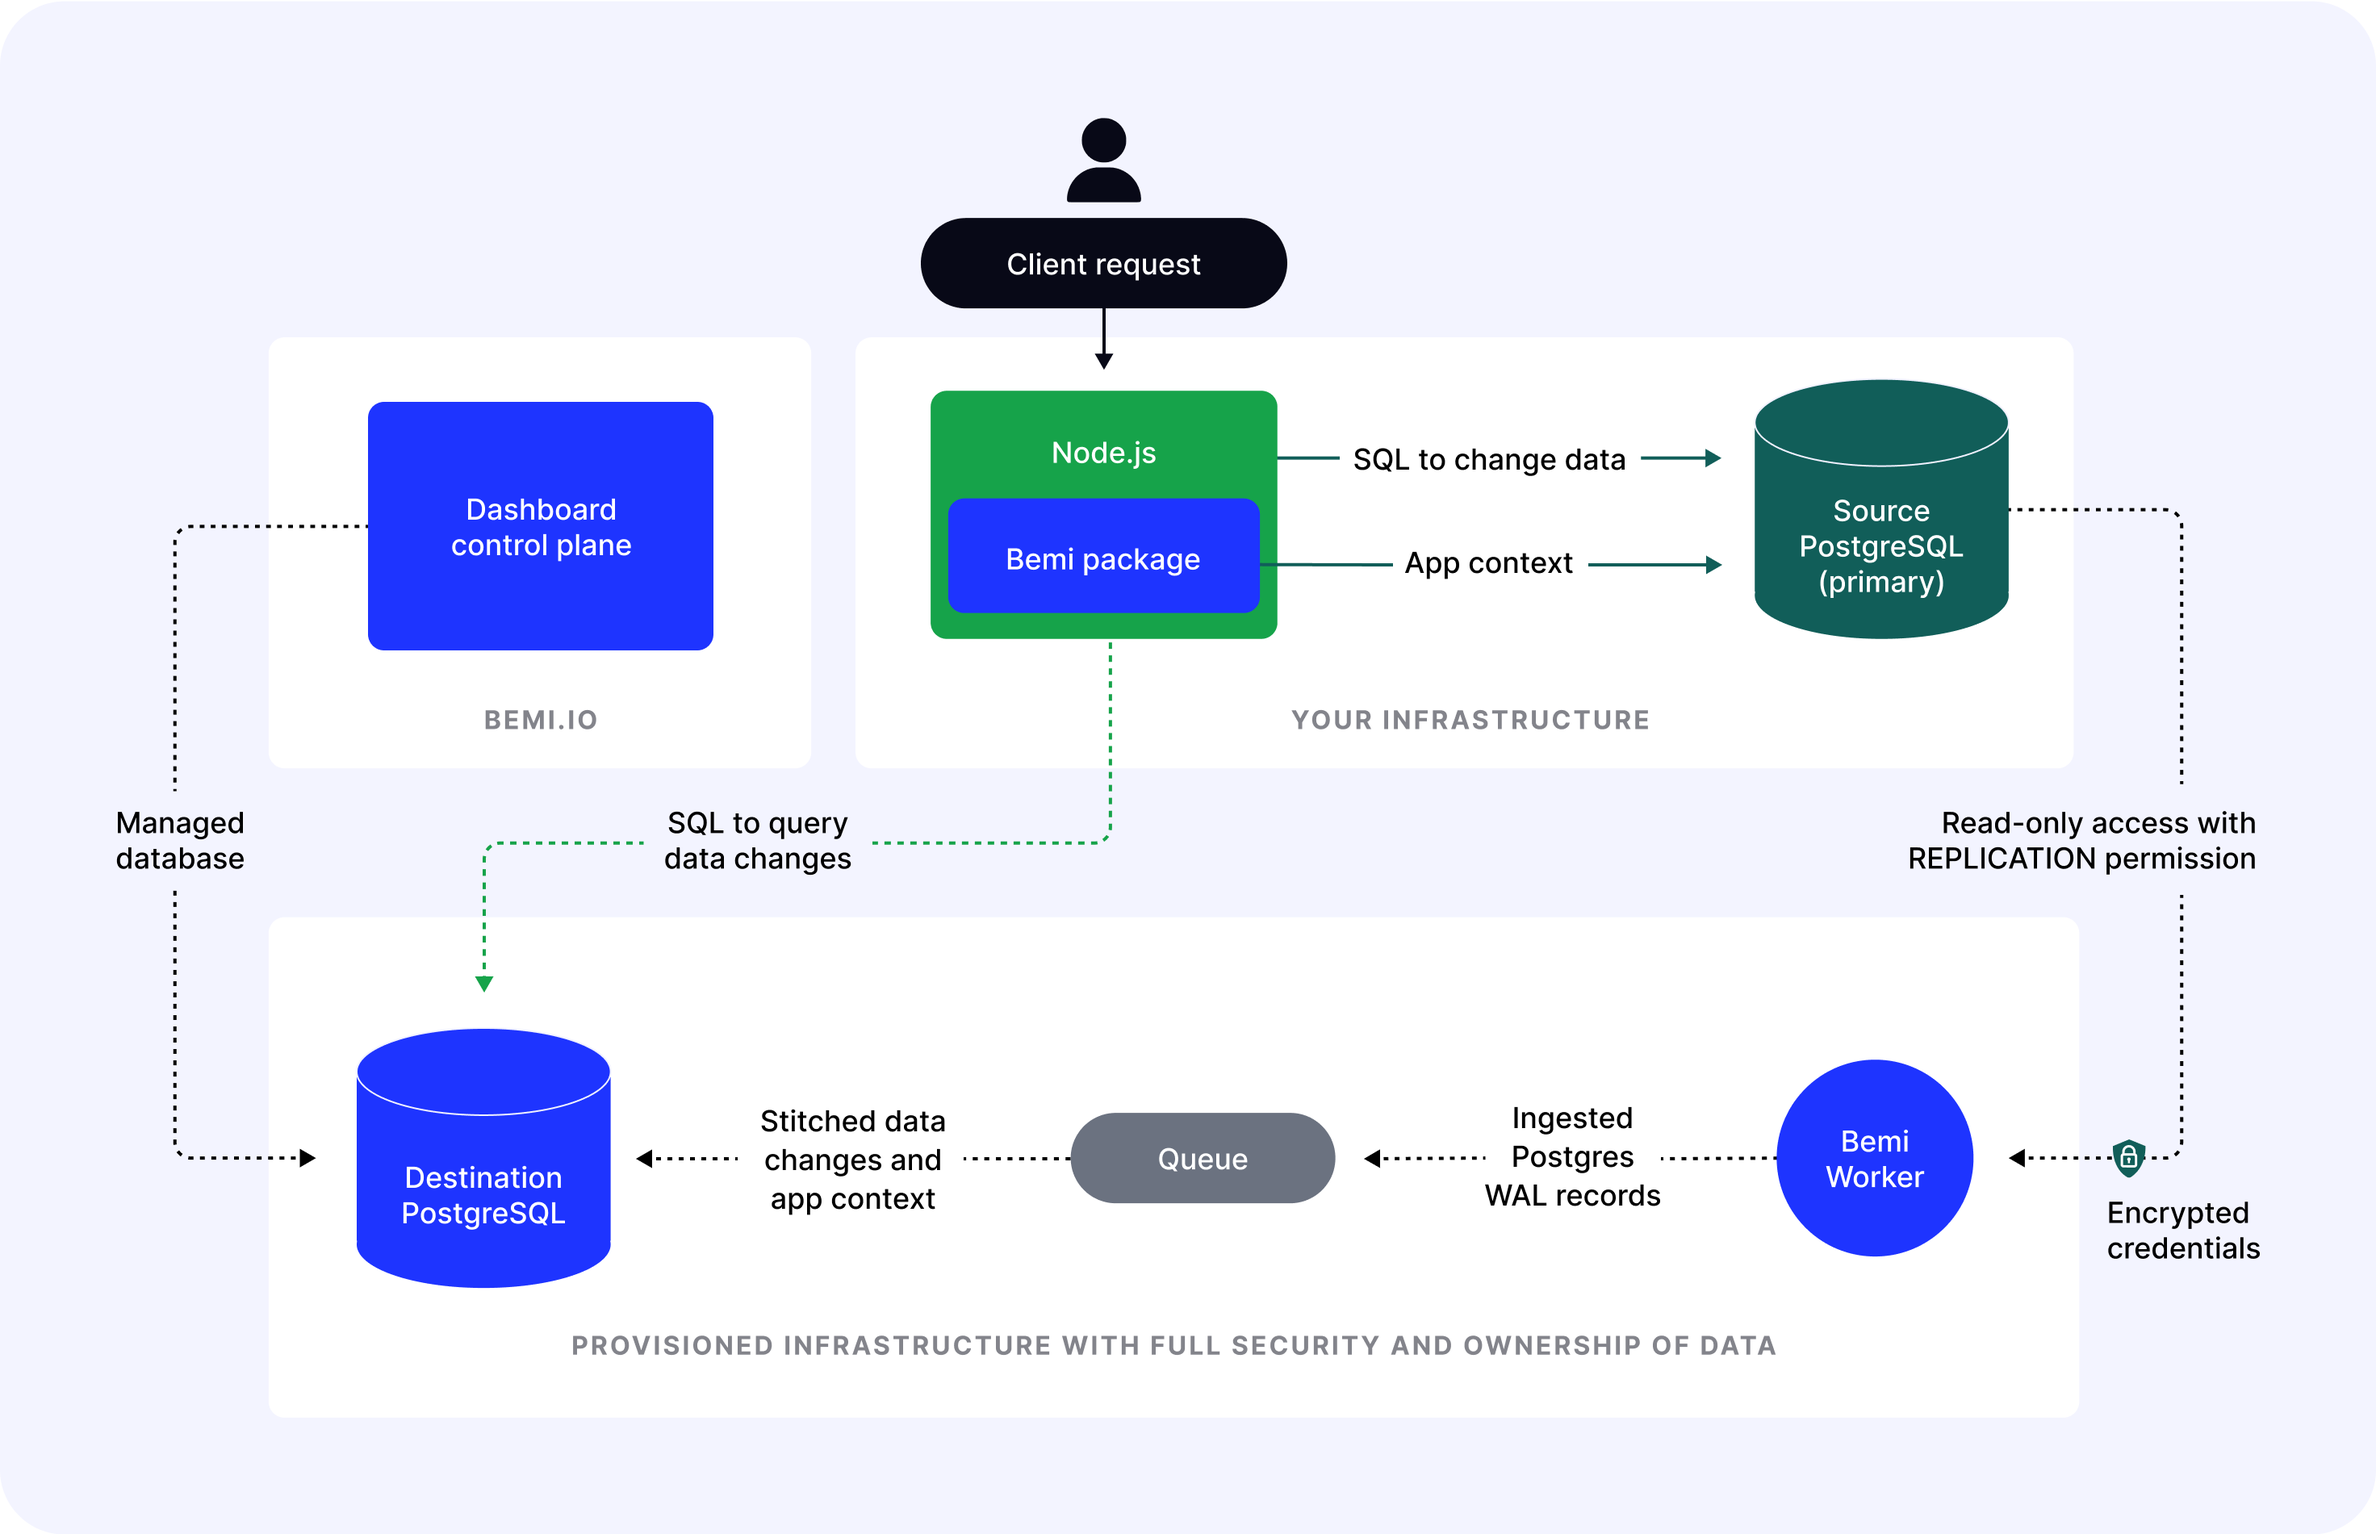
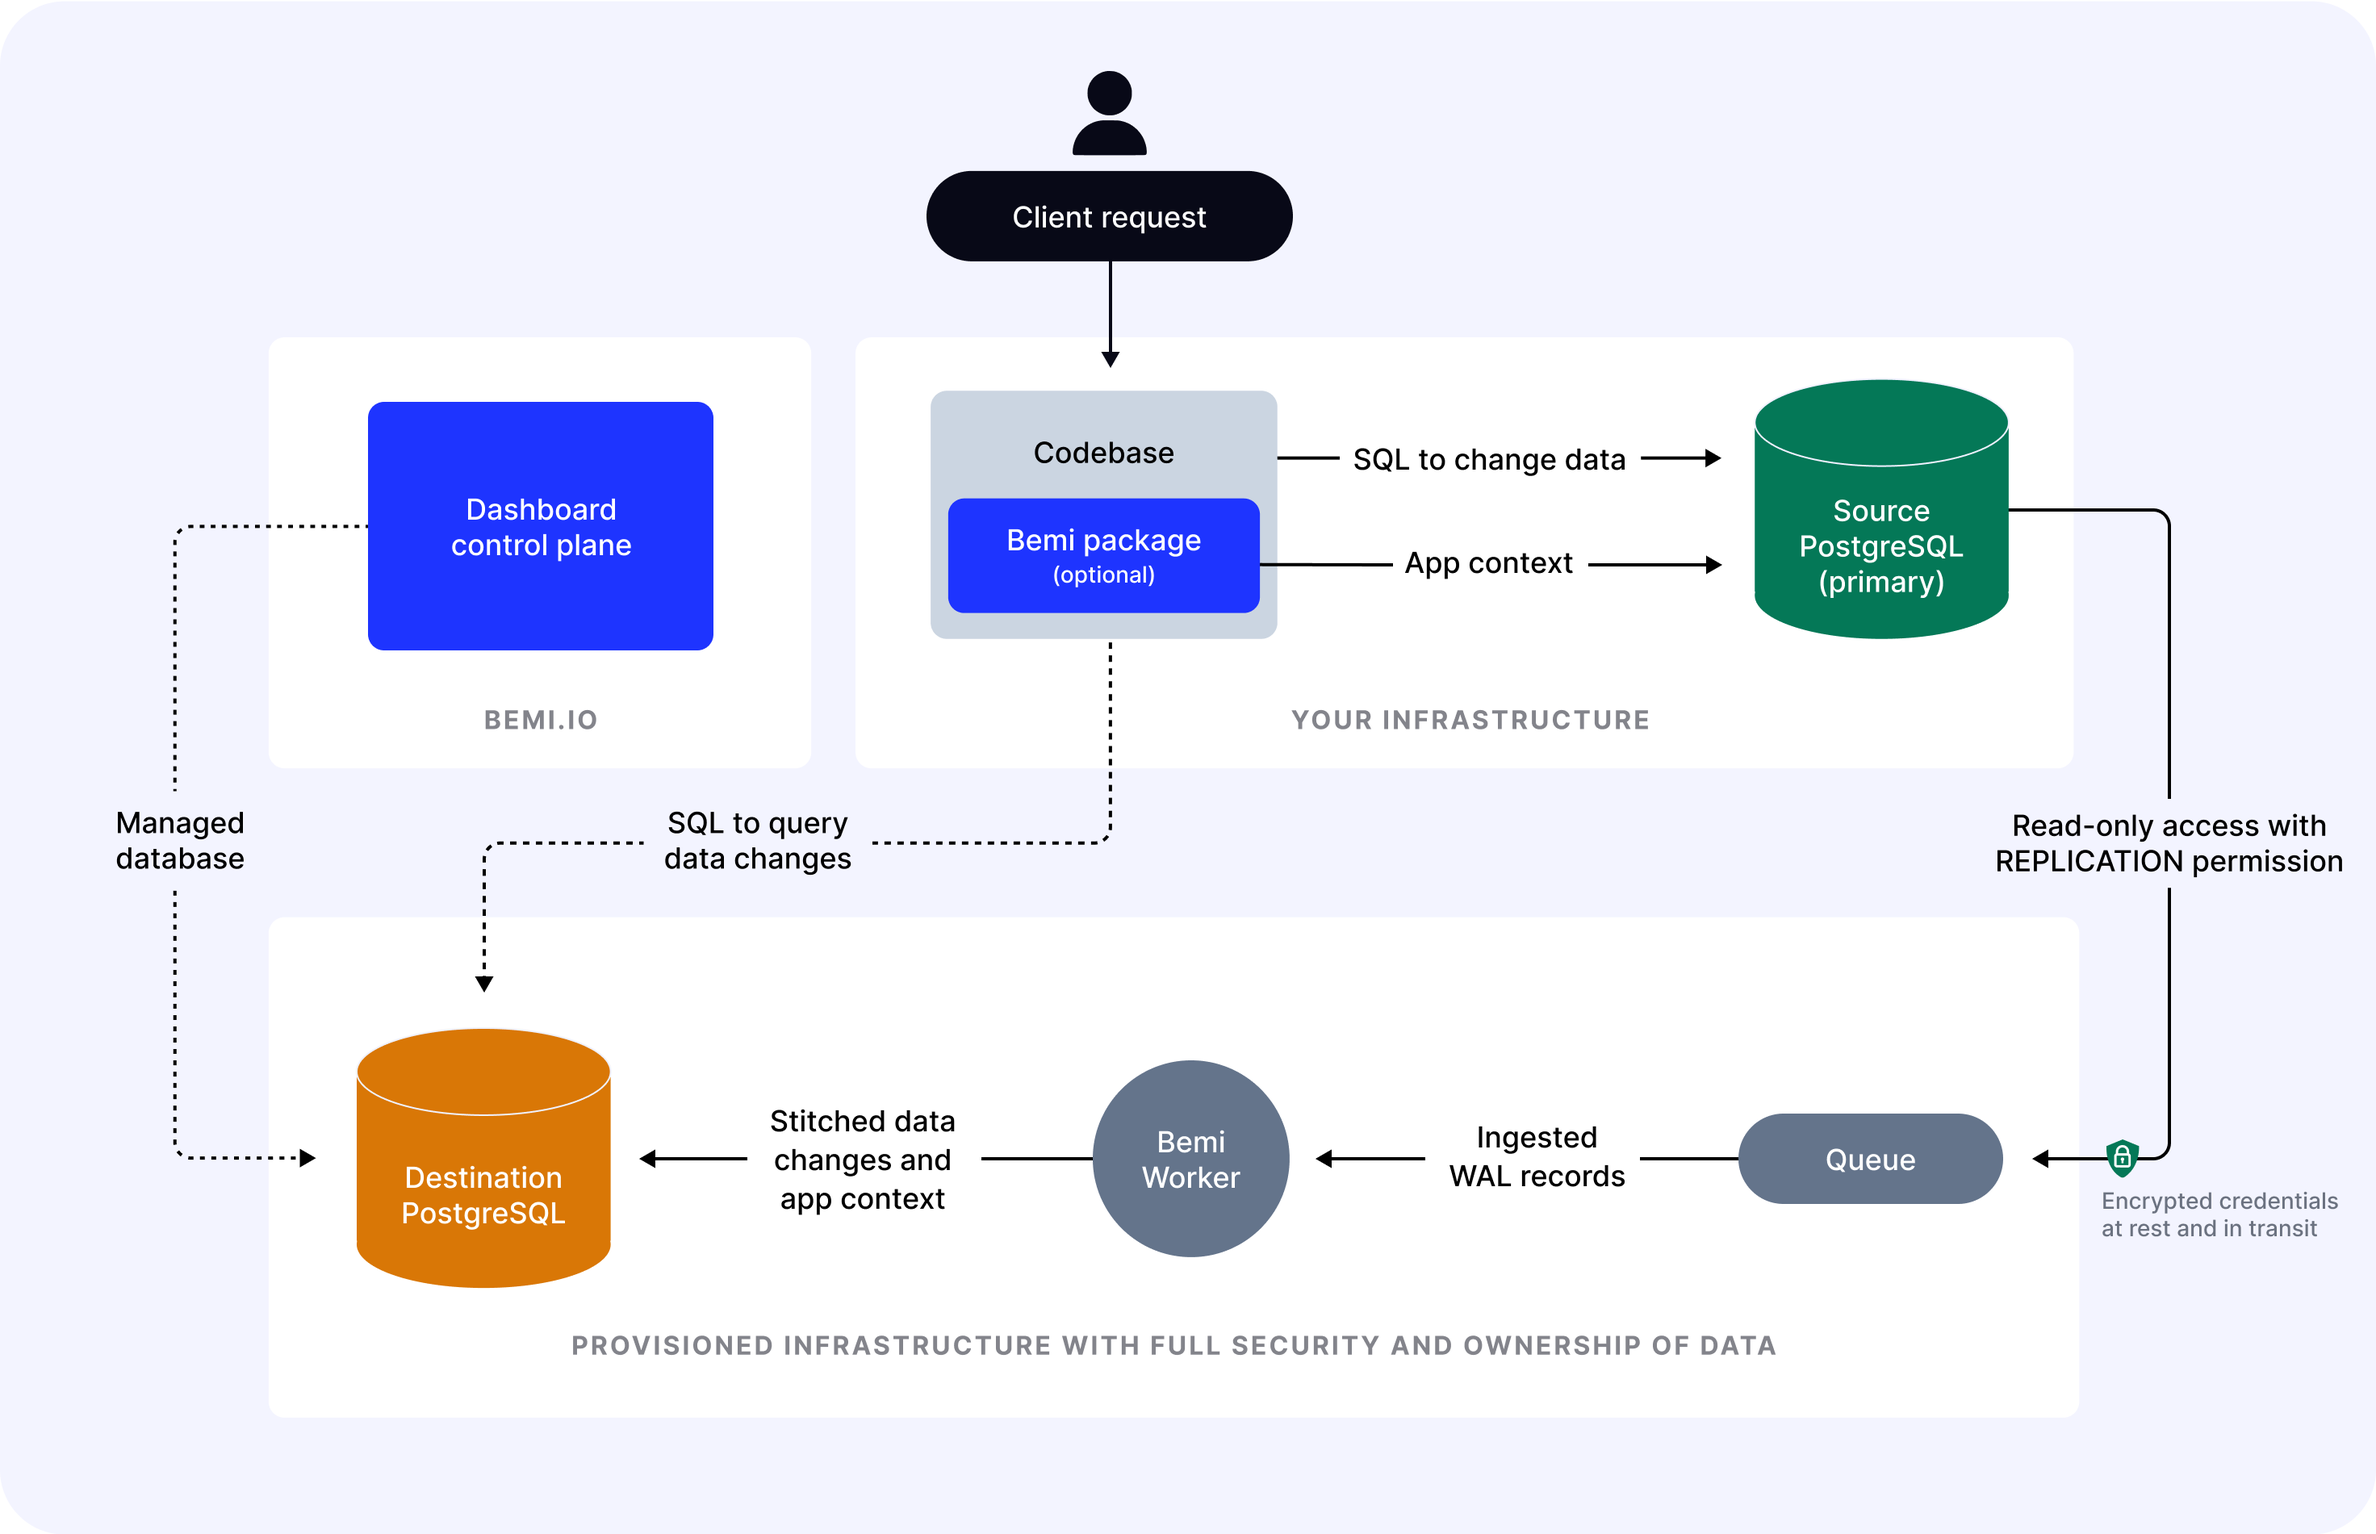
Update architecture diagrams

diff --git a/README.md b/README.md
@@ -22,6 +22,10 @@
 
 # Bemi
 
+## Architecture
+
+![Bemi Worker Architecture](docs/static/img/worker.png)
+
 ## License
 
 Distributed under the terms of the [SSPL-1.0 License](/LICENSE). If you need to modify and distribute the code, please release it to contribute back to the open-source community.
